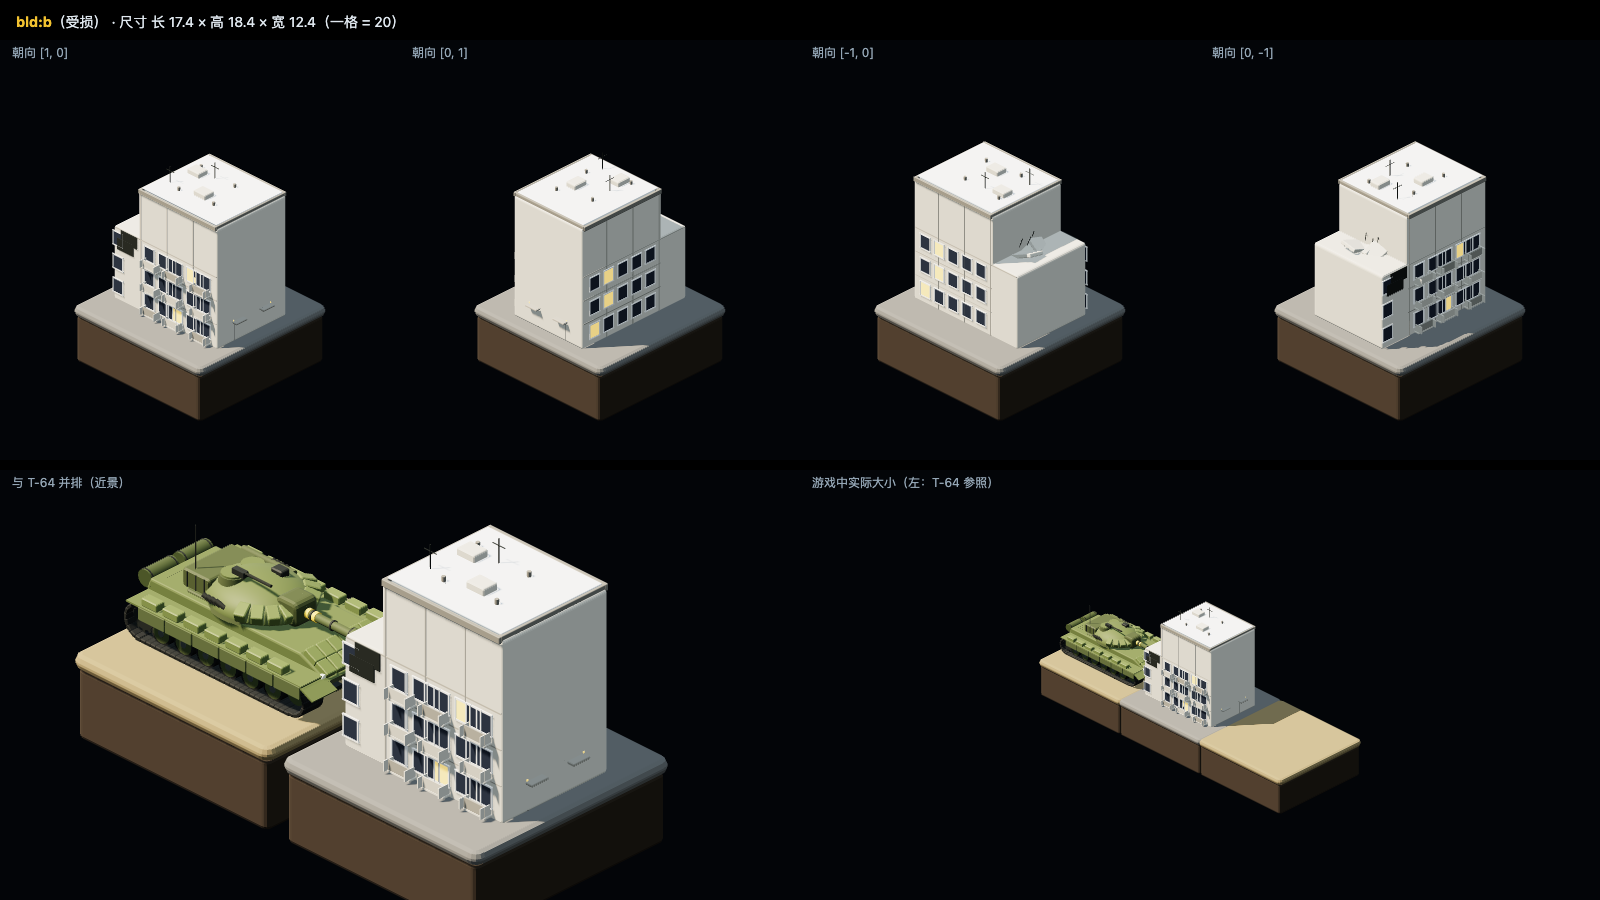
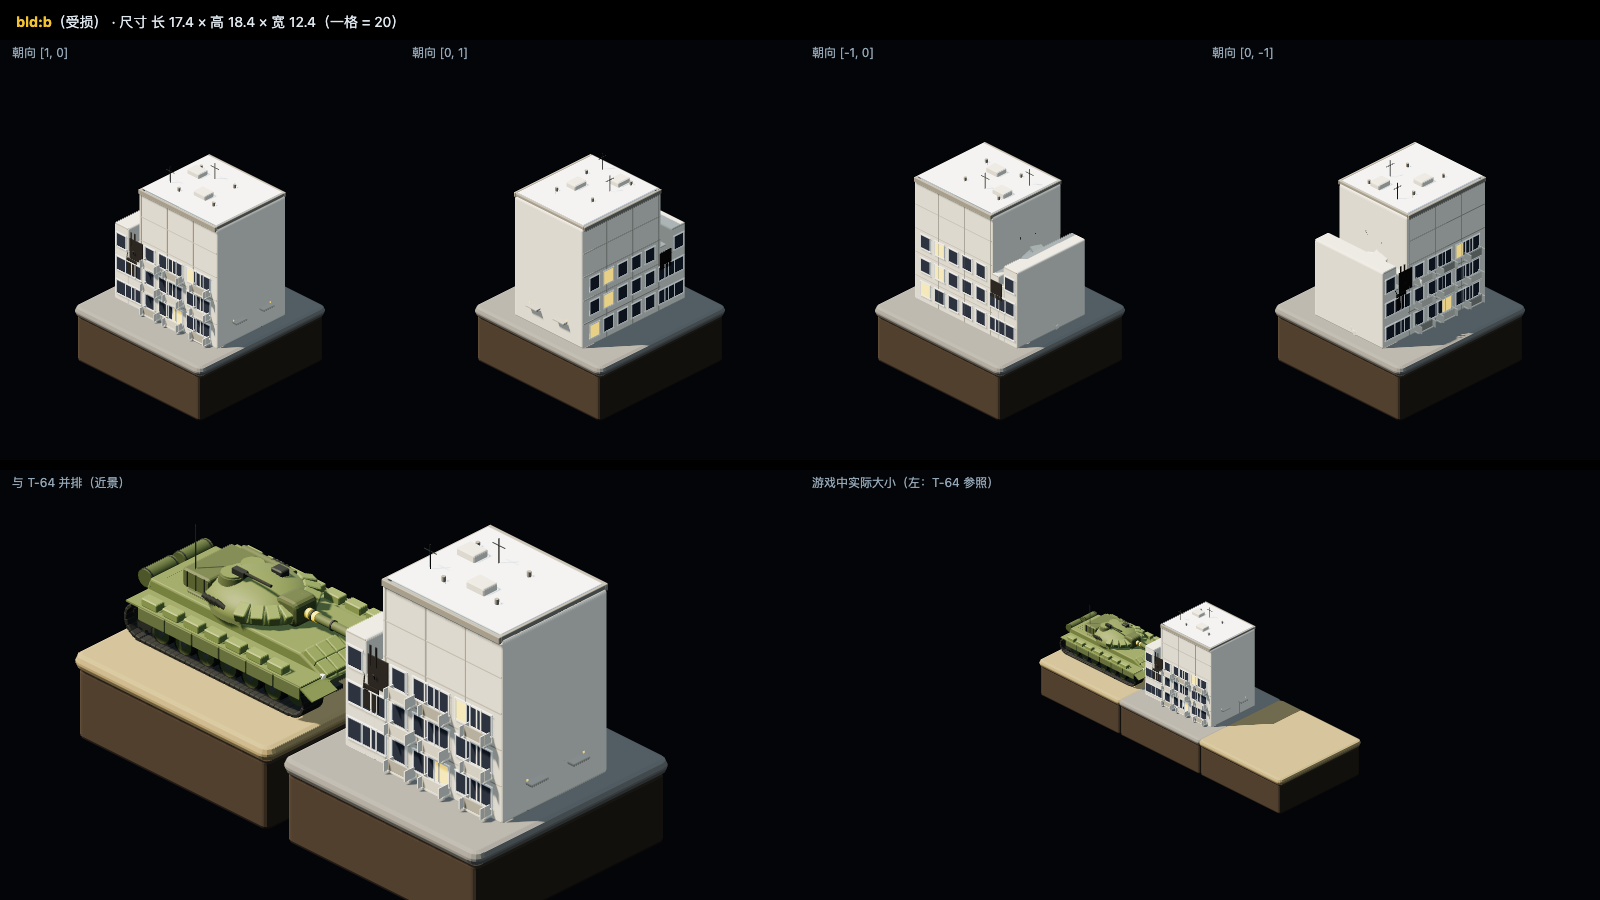
T-30: 第 2 轮修改（受损状态重做：参差残墙、歪挂楼板、熏黑烟熏、碎块）

diff --git a/game/js/models3d.js b/game/js/models3d.js
@@ -945,7 +945,6 @@ function m3BldB(seed, dmg) {
   const RAIL1 = mat3('#b9b3a4', 0.8), RAIL2 = mat3('#8e8a7e', 0.8), DKS = mat3('#2d302a', 0.6, 0.3);
   const FL = 3.1, FH = 15.5;
   const breakX = dmg ? -4.2 : -8.15, w1 = 8.15 - breakX, cx1 = (breakX + 8.15) / 2;
-  const topH = dmg ? 3 * FL : FH;
   function win(x, y, z, ry, lit) {
     const W = new THREE.Group(); W.position.set(x, y, z); W.rotation.y = ry; B.add(W);
     part(W, new THREE.BoxGeometry(1.45, 1.65, 0.1), lit ? LIT : DKW, 0, 0, 0);
@@ -953,10 +952,8 @@ function m3BldB(seed, dmg) {
   }
   // 1. main body with a small bevel; the damaged end keeps only the lower three floors
   part(B, rbox(w1, FH, 11, 0.18), WALL, cx1, FH / 2, 0);
-  if (dmg) part(B, rbox(4.0, topH, 11, 0.18), WALL, -6.15, topH / 2, 0);
   // 2. panel seams: horizontal strips at each floor line, a few vertical strips
-  for (let f = 1; f <= Math.floor(topH / FL); f++) part(B, new THREE.BoxGeometry(w1, 0.11, 11.05), SEAM, cx1, f * FL, 0);
-  if (dmg) part(B, new THREE.BoxGeometry(4.0, 0.11, 11.05), SEAM, -6.15, topH, 0);
+  for (let f = 1; f <= 5; f++) part(B, new THREE.BoxGeometry(w1, 0.11, 11.05), SEAM, cx1, f * FL, 0);
   for (const vx of [-4.0, 0.2, 4.4]) part(B, new THREE.BoxGeometry(0.1, FH, 11.08), SEAM, vx, FH / 2, 0);
   // 3+4. windows and balconies, floor by floor
   const winXs = [];
@@ -978,7 +975,15 @@ function m3BldB(seed, dmg) {
       win(wx - 0.6, y, 5.56, 0, false);
     }
     if (!gone) { win(7.9, y, 2.3, HALF_PI, hash(seed, f, 7) < 0.34); win(7.9, y, -2.3, HALF_PI, hash(seed, f, 8) < 0.34); }
-    if (dmg && f < 3) win(-7.6, y, 5.56, 0, false);
+  }
+  if (dmg) for (const [sx0, sx1, sh] of [[-8.15, -6.15, 9.3], [-6.15, -5.15, 6.2], [-5.15, -4.2, 8.3]]) {
+    const w = sx1 - sx0, cx = (sx0 + sx1) / 2, hh = sh + (hash(seed, sx0, 20) - 0.5) * 1.6;
+    part(B, rbox(w, hh, 11, 0.14), WALL, cx, hh / 2, 0);
+    for (let f = 0; f * FL + 1.7 < hh - 0.8; f++) {
+      win(cx, f * FL + 1.75, 5.56, 0, false);
+      win(cx, f * FL + 1.75, -5.56, Math.PI, false);
+    }
+    part(B, new THREE.BoxGeometry(w, 0.11, 11.05), SEAM, cx, hh, 0);
   }
   // 5. two entrances on the +x side with concrete canopies and a small lamp
   for (const dz of [2.2, -2.2]) {
@@ -998,17 +1003,21 @@ function m3BldB(seed, dmg) {
     part(B, cyl(0.05, 0.05, 2.6, 6), DKS, ax, FH + 1.4, az);
     part(B, new THREE.BoxGeometry(1.3, 0.05, 0.05), DKS, ax, FH + 2.1, az);
   }
-  // 7. damaged state: tilted slabs, rebar, soot marks, rubble at the base
+  // 7. damaged state: ragged collapse, hanging slabs, soot, smoke streaks, rubble
   if (dmg) {
-    part(B, rbox(4.0, 0.09, 10.6, 0.04, 1), SNOW, -6.15, topH + 0.05, 0);
-    for (const [sx, sy, sz, rz, rx] of [[-4.6, topH + 0.6, 1.2, 0.5, 0.3], [-5.6, topH + 0.3, -1.4, -0.4, 0.2], [-4.4, topH + 0.15, -0.4, 0.2, -0.35]]) {
-      const sl = part(B, rbox(3.3, 0.35, 2.2, 0.06, 1), WALL, sx, sy, sz); sl.rotation.z = rz; sl.rotation.x = rx;
+    for (const [sx, sz, rz, rx] of [[-4.9, 1.3, 0.55, 0.25], [-5.6, -1.2, -0.45, -0.2], [-4.5, 0.1, 0.3, -0.3]]) {
+      const sl = part(B, rbox(2.7, 0.4, 1.9, 0.06, 1), WALL, sx, 8.6, sz); sl.rotation.z = rz; sl.rotation.x = rx;
     }
-    for (const [cx2, cy2, cz2] of [[-4.35, topH + 1.3, 0.8], [-4.4, topH + 1.1, -1.1], [-4.5, topH + 0.9, 0.1]])
-      part(B, cyl(0.05, 0.05, 1.4, 6), DKS, cx2, cy2, cz2, 0.3, 0, 0.2);
-    for (const [sx, sy, sz] of [[-5.8, 8.6, 5.6], [-6.4, 7.4, 5.6]]) part(B, new THREE.BoxGeometry(2.6, 1.5, 0.1), DKS, sx, sy, sz);
-    for (const [rx2, rz2, rr] of [[-7.2, 1.2, 0.9], [-6.4, -1.6, 0.7], [-5.2, 0.6, 0.5], [-7.6, -0.8, 0.6], [-5.9, 2.2, 0.45]]) {
-      const rub = part(B, rbox(rr * 2, rr, rr * 1.6, 0.06, 1), SEAM, rx2, rr / 2, rz2); rub.rotation.y = hash(rx2, rz2, seed) * 3;
+    part(B, rbox(2.9, 0.4, 2.0, 0.06, 1), WALL, -6.3, 0.22, 1.1);
+    for (const [bx, by, bz, brx, brz] of [[-4.15, 10.2, 1.1, 0.4, 0.3], [-4.25, 10.6, -0.9, -0.3, 0.2], [-5.05, 6.9, 5.56, 0.5, -0.2], [-6.2, 6.6, 5.56, -0.4, 0.25]])
+      part(B, cyl(0.05, 0.05, 1.5, 6), DKS, bx, by, bz, brx, 0, brz);
+    for (const [sx, sy, sz, w, h] of [[-4.7, 7.6, 5.6, 2.1, 2.6], [-5.4, 5.2, 5.6, 1.5, 2.0], [-5.0, 6.4, -5.6, 1.8, 2.2]])
+      part(B, rbox(w, h, 0.09, 0.05, 1), mat3('#1f1c19', 1), sx, sy, sz);
+    for (const wx of [-4.9, -5.5]) part(B, rbox(0.14, 1.7, 0.1, 0.04, 1), mat3('#1f1c19', 1), wx, 8.9, 5.62);
+    for (let k = 0; k < 10; k++) {
+      const rr = 0.4 + hash(seed, k, 21) * 0.55, a = hash(seed, k, 22) * Math.PI;
+      const rub = part(B, rbox(rr * 2.1, rr, rr * 1.6, 0.06, 1), k % 3 ? SEAM : WALL, -6.1 + Math.cos(a) * (1.0 + hash(seed, k, 23) * 2.2), rr / 2, Math.sin(a) * (1.0 + hash(seed, k, 24) * 1.6));
+      rub.rotation.y = hash(seed, k, 25) * 3; rub.rotation.z = (hash(seed, k, 26) - 0.5) * 0.4;
     }
   }
   return B;

diff --git a/docs/tasks/T-30-精修赫鲁晓夫楼.md b/docs/tasks/T-30-精修赫鲁晓夫楼.md
@@ -75,6 +75,26 @@
 
 需审查方决定的问题：无。
 
+**第 2 轮（执行方：ZCode）**
+
+按第 1 轮审查意见重做受损状态（完好状态未动）：
+1. 塌口参差：删掉平整的矮箱，改为 3 段高低不齐的残墙（宽 2.0/1.0/0.95，高 9.3/6.2/8.3 加 hash 起伏），每段顶一条板缝。
+2. 楼板：3 块薄板（0.4 厚）歪斜挂在三层顶的塌口处，另 1 块整块落在楼脚。
+3. 熏黑：塌口附近 ±z 墙面 3 块焦黑不规则斑块（#1f1c19、粗糙度 1）紧贴墙面；这些位置的窗户全部暗窗，其中两扇上方加向上烟熏条。
+4. 楼脚碎块：沿塌口一侧堆 10 块大小不一的混凝土块（hash 定位旋转）。
+5. 屋顶积雪只画在存活一侧，塌口一侧不画。
+另外按审查要求补齐：残墙边缘 4 组歪斜钢筋；清理过程中误删的 `topH` 引用已全部移除（板缝循环改为固定 5 层）。
+
+自测：
+- `node tools/check.js`：✓ 语法（19 个文件）；✓ 范围（仅 models3d.js）。
+- `node tools/playtest.js /tmp/pt-T-30r2`：`ERRORS none`，退出码 0。
+- `node tools/shot3d.js /tmp/s3-T-30r2`：`SHOT3D OK`，退出码 0；`model-shot` bld:b dmg：`MODEL OK`。
+- `bld_b-dmg.png` 重拍并逐张目检：残墙参差、熏黑与烟熏条、楼脚碎块清晰，与完好状态差别明显。
+
+需审查方决定的问题：无。
+
+## 审查意见（审查方写）
+
 ## 审查意见（审查方写）
 
 ## 审查意见（审查方写）
